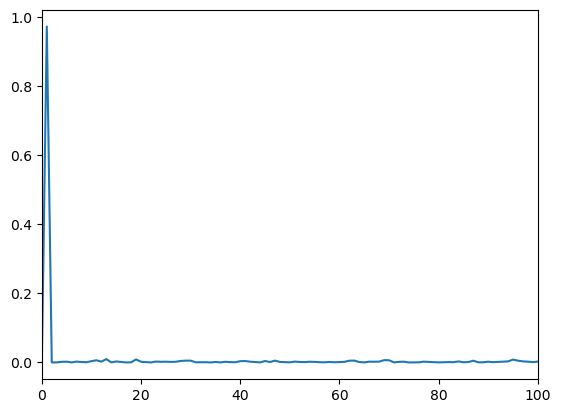
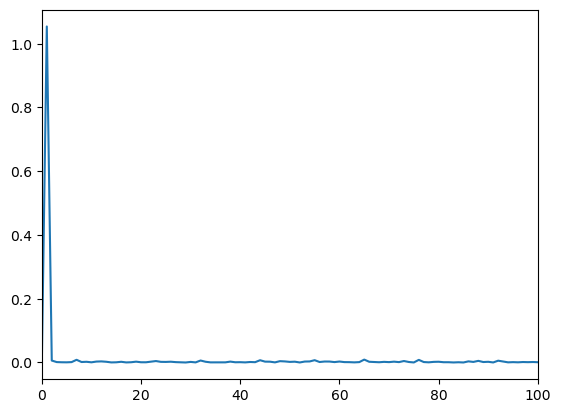
Update documentation

diff --git a/searchindex.js b/searchindex.js
@@ -1,1 +1,1 @@
-Search.setIndex({docnames:["ODE/1stODE","ODE/2ndODE","ODE/Laplace","ODE/Special_function","ODE/Sturm_Liouville","PDE/Fourier_Transform","PDE/Heat_equation","PDE/Laplace_equation","PDE/Wave_equation","README","content","intro","markdown","markdown-notebooks","notebooks"],envversion:{"sphinx.domains.c":2,"sphinx.domains.changeset":1,"sphinx.domains.citation":1,"sphinx.domains.cpp":3,"sphinx.domains.index":1,"sphinx.domains.javascript":2,"sphinx.domains.math":2,"sphinx.domains.python":2,"sphinx.domains.rst":2,"sphinx.domains.std":2,"sphinx.ext.intersphinx":1,"sphinxcontrib.bibtex":7,sphinx:56},filenames:["ODE/1stODE.md","ODE/2ndODE.md","ODE/Laplace.md","ODE/Special_function.md","ODE/Sturm_Liouville.md","PDE/Fourier_Transform.ipynb","PDE/Heat_equation.md","PDE/Laplace_equation.md","PDE/Wave_equation.md","README.md","content.md","intro.md","markdown.md","markdown-notebooks.md","notebooks.ipynb"],objects:{},objnames:{},objtypes:{},terms:{"001":3,"008595":5,"01735532":5,"05392595":5,"0562558929603039":5,"05731215":5,"0th":[2,3],"0x104462f40":14,"0x1047cf4c0":5,"100":[3,4,5,14],"1000":[3,4,5],"103":3,"104":3,"105":3,"106":3,"108":3,"114":3,"115":3,"122":3,"126":3,"127":3,"1298":5,"132":3,"133":3,"137":3,"144":6,"145":6,"146":6,"151":6,"153":6,"164":6,"1717":8,"175":8,"1783":8,"1803":4,"1809":4,"181":8,"1822":6,"184":8,"185":8,"1855":4,"187":8,"1882":4,"189":8,"191":8,"195":8,"196":8,"19680801":14,"1982":3,"199":8,"1st":[1,2,3,6,11],"2017":[11,12],"205":8,"206":8,"213":7,"215":7,"217":7,"220":7,"222":7,"226":7,"227":7,"229":7,"230":7,"231":7,"234":7,"236":7,"245":7,"2a_":1,"2a_0":1,"2a_n":1,"2as":2,"2dx":4,"2ir":7,"2nd":[0,2,3,6,8,11],"2pi":4,"2rr":7,"2sy":2,"2t_":2,"2ux":0,"2xt":3,"2xy":1,"2y_":8,"30x":3,"35x":3,"4ae":1,"4sy":2,"4t_":2,"508997":5,"57721566":3,"9118794535016458":5,"91279133":5,"91475538":5,"9ae":1,"\u03bb":3,"\u8f38\u51fa\u7d50\u679c":5,"case":[0,2,3,4,6,7,8],"class":11,"default":[12,13],"final":[0,1,2,4,6,7],"float":[3,5],"fran\u00e7oi":4,"function":[0,1,5,6,7,8,11,12],"h\u00f4pital":3,"import":[0,1,2,3,4,5,6,7,11,14],"int":[0,1,2,4,6,7],"long":[0,1,3,4,8],"new":[2,3,4,7],"return":5,"short":10,"try":[1,2,3,4,6,8],"while":[0,3,4,6,7,8],Adding:8,But:[3,14],For:[0,1,2,3,4,6,7,8,12,14],ODE:[2,3,4,6,8,11],ODEs:[0,1,2,3,4,11],One:[0,1,2,3,4,6,7,8],P_s:0,Such:6,That:[1,2,6,8,13],The:[0,2,6,8,11,12,13],Then:[0,1,2,3,4,6,7,8],There:[0,1,2,3,4,10,11,12,14],These:[4,8],Use:[0,7],Using:[0,1,2,4,6,7,8],With:[1,6,7,8,13],_0e:1,__init__:5,_ioncontext:14,a_0:[3,6,7],a_1:[1,3,4],a_1i:4,a_2:[1,4],a_2i:4,a_even:3,a_i:1,a_k:[4,5,8],a_n:[1,3,4,6,7,8],a_nx:3,abil:2,abl:1,about:[0,1,2,3,4,6,7,8,12,13,14],abov:[0,1,2,3,4,6,7,8,11],ac_2:4,acceler:[0,3],accept:12,accord:[0,1,2,3,4,6,8],accuraci:4,achiev:4,act:2,actual:[2,4],add:[6,12],add_:14,addit:[1,2,3,4,6],adiabat:0,adjac:8,adjoint:4,advanc:[11,12],advantag:0,advect:6,after:[2,4],again:[0,1,2,3,6,12],against:8,air:0,alambert:8,alembert:11,algebra:[1,2,7],align:[0,1,2,3,4,6,7,8,14],all:[0,1,2,3,4,6,7,8,11,12,13],allow:12,along:[1,3,6,7,8],alpha:[0,1,2,6,8],alpha_:6,alreadi:[0,2,12],also:[0,1,2,3,4,6,7,8,11,12,13,14],altern:[1,3,7],although:4,alwai:[0,4,6,8],amount:[0,7],amplif:3,amplitud:[3,4],analysi:[0,6,11],analyt:[0,11],analyz:1,angl:0,angular:3,ani:[0,1,2,3,4,8,12,13],anoth:[0,1,2,3,4,12],answer:[0,1,2],appar:[1,3],appear:6,appli:[0,1,2,3,4,6,7,8,11],applic:[0,3,6,7],approach:[0,1,4,6,7,8,11],approx_i:4,approxim:4,arang:5,arbitrari:[3,7],area:[1,3,4],ares:6,argmax:5,argument:3,aris:[2,3],around:[1,3,4],arrai:14,asarrai:5,assign:8,associ:[1,12],assum:[0,1,2,3,4,6,7,8],atmospher:[0,1,2,3,8,11],atom:6,attempt:[6,8],au_x:6,averag:[2,3],axes:14,axi:4,b_1:4,b_1y:4,b_2:4,b_2y:4,b_k:[4,5,8],b_n:[4,6,7,8],b_ne:6,back:[0,1,2,3,6,7,8],background:0,balanc:[0,6],ballist:0,bar:4,base:[0,1,2,3,4,7,11,13],basi:[2,4,6,7],basic:11,becaus:[2,3,6,7,8],becom:[2,3],been:[2,3,4],befor:[1,2],begin:[0,1,2,3,4,6,7,8,14],behind:1,being:12,below:[0,1,2,3,4,7],bernard:0,bernoulli:11,bessel:[4,7,11],bessel_output:3,beta:[1,2,6,8],better:1,between:[0,1,2,3,4,6,8],bib:12,bibliographi:12,bibtex:12,big:6,bit:1,block:[12,13],book:[12,13,14],both:[0,1,2,3,6,7,8,11,12],bottom:2,bound:[2,3,4,6],boundari:[0,1,6,7,8,11],box:12,build:12,built:[12,13],buoyanc:0,butterfli:0,by_1:1,by_2:1,c_0:[3,4],c_1:[1,2,3,4],c_1e:[1,2,4],c_1x:1,c_1y:1,c_1y_1:1,c_2:[1,2,4],c_2e:[1,2,4],c_2x:1,c_2y:1,c_2y_2:1,c_3:[1,3],c_3e:1,c_4:1,c_4e:1,c_5:3,c_7:3,c_k:[4,5],c_n:[3,4,6,7],c_p:0,c_v:0,calcul:[0,1,2,3,4,8],calculu:11,call:[0,1,2,3,4,6,12],can:[0,1,2,3,4,6,7,8,12,13,14],care:6,carri:[0,6],cartesian:7,cast:5,categor:[0,1,11],categori:[6,11],caus:[3,6],cbook:5,cdot:[1,2,3,6],cell:12,cengag:[11,12],center:[1,4],central:8,certain:[0,1,2,4,6,7,8],certainli:0,chain:7,challeng:1,chang:[0,1,4,6,7,8],chao:[0,4],chapter:[1,2,3,4,6,7],character:0,characterist:[1,2,4,6,7,11],charl:4,check:[0,3,14],choic:[1,3],choos:[3,6,8],chosen:[4,6],circl:7,circul:[0,2,3,4],circular:1,cite:12,classic:1,close:[0,1,4,6,7],cmap:14,code:[4,13],coef:4,coeffici:[2,3,6,7,8,11],cold:14,collect:3,color:14,combin:[0,1,3,4,6,7,8],come:[0,6],command:[12,13],common:0,commonmark:12,compar:[0,1],complet:[0,1,3,4,7,8],complex:[2,3,5,7,12],complexwarn:5,complic:[1,4,6,8],compon:2,comput:12,concentr:3,concept:[0,1,4],conclud:7,conclus:4,condit:[0,1,2,6,11],conjug:[1,5],connect:[0,2,4],conserv:[0,6,8],consid:[0,1,2,3,6,7,8],consin:8,consist:[2,6],constant:[0,2,3,4,6,7,8,11],constrain:[1,6],constraint:[3,6],content:[12,13],continu:[1,4],contribut:4,convect:[0,2],conveni:1,converg:[1,4],convert:[2,4,6,7,8,13],convolut:[4,11],coolwarm:14,coordin:[0,1,2,3,4,7,8],core:3,correspond:[0,1,2,3,4,7,8],cos:[0,1,2,3,5,6,7,8],cos_coef:5,cosh:[2,7],count2:3,count:3,counteract:0,counterpart:2,cours:[0,1,3,4],covari:4,cover:[0,1,2,3,4,10],cramer:1,creat:[2,14],criteria:2,cross:[0,1,4],current:[0,1],custom_lin:14,cycl:4,cycler:14,cyclon:[0,3],cylind:[3,4,11],cylindr:3,data:[2,4,14],deal:[2,7,8],decid:[0,1,4],decompos:[1,2,3,7],decomposit:[1,2,3],def:5,default_env2:5,defin:[0,1,2,3,4,5,7,12,13],definit:[0,2,4],delta:[6,11],delta_:2,demonstr:[4,6,8],denomin:2,denot:3,densiti:[0,6],depart:2,depend:[1,6,12],deriv:[0,1,2,3,4,6,7,8],describ:[1,4,7,8],detail:[0,1,2,3,4,13],determin:[0,1,2,3,4,6,8],develop:[3,6,8],did:6,differ:[0,2,3,4,6,7,11,12],differenti:[0,1,2,3,4,6,11],diffus:[3,4,7,11],dim:3,dimens:[0,6,11],dirac:11,direct:[0,3,6,7,8,13],directli:[1,7,12],dirichlet:11,discard:[2,5],discontinu:2,discret:4,discuss:[1,3,4],dispers:[0,11],displac:[1,8],displai:[12,13],distinct:4,distribut:6,dive:2,divid:[0,2,4,6,7],doc:12,document:[12,13,14],doe:[1,2,4,6],doesn:[1,2,6,12],doing:6,dollar:14,domain:[4,6,7],don:[2,3,4,7],done:[0,3],dot:7,down:[0,6],drag:0,drive:2,drop:[1,3,6],dt_:2,due:3,durat:2,dure:[0,4],dynam:[0,3,4,8],each:[0,1,2,3,4,6,7,8],earth:[0,1,3,4,6],easi:[0,4,6],easier:1,easiest:0,easili:[0,1,3,4,6,8],ecosystem:12,edg:[4,7],effect:[2,3,4],effici:[0,3],eigen:[3,4,6],eigenfunct:11,eigenvalu:3,either:6,electromagnet:3,emb:14,emit:1,enabl:[1,2,3],end:[0,1,2,3,4,5,6,7,8,14],energi:[0,3,4,6],engin:[4,6,11,12],enough:[1,6],enso:1,ensur:6,entir:[0,1,2,3,4,6,7,8,12],env:5,environ:6,environment:6,epsilon:2,equal:[1,2,3,4,6,7],equat:[0,2,3,4,11],equilibrium:[4,6],equip:11,equiv:3,equival:[0,4,6,7,8],era:4,escap:14,especi:[6,8],eta:8,etc:14,euler:[3,7,11],evalu:6,even:[0,3,4,11],everi:[1,4],evid:[1,2,4],evolv:[1,6],exactli:[0,2],examin:[0,3],exampl:[3,11,12,14],except:[1,8],exchang:[0,6],execut:13,exist:[0,2,4,6,8,11,12],exp:5,expand:[0,3],expans:[1,3,11],expect:[6,8,11],experi:[0,2],expert:2,explain:4,expon:[1,3],exponenti:2,express:3,extend:6,extens:12,extern:[1,6,8],extrem:[2,4],eyewal:2,f_1:1,f_2:1,f_i:1,f_n:1,face:0,fact:[3,6],factor:[0,2,4],fall:[0,6],familiar:6,famou:[2,3,4],far:[0,6],featur:[3,4],feel:3,few:[0,1,3,4,6,10],fft:5,field:[0,2],fig1:0,fig:[4,14],figsiz:14,figur:[0,1,2,3,4,7],file:13,filter:[2,4,11],find:[0,1,2,3,6,7,8,11],finit:[2,6,8],fire:1,first:[0,1,2,3,4,6,7,8,11,12],fix:[8,14],flat:4,flatten:6,flavor:12,float64:3,flow:0,flowchart:2,fluid:3,flux:[6,7],focu:[2,3],follow:[0,1,2,3,4,6,7,8,12,13],forc:[0,1,2,8,11],forget:3,form:[2,3,6,7,8,11],formul:11,formula:11,forth:[0,2,3],found:[0,4],four:7,fourier:[2,3,5,6,7,8,11],frac:[0,1,2,3,4,6,7,8],fraction:2,free:0,frequenc:[2,4],friction:6,from:[0,1,2,3,4,6,7,8,14],fundament:1,further:[0,1,3,4],gamma:3,gap:2,gas:0,gaussian:6,gdt:0,gener:[0,2,4,8,11],geometr:4,geometri:3,geophys:3,geq2:3,geq:3,get:[0,1,2,3,6,7,13],gibb:11,give:[0,1,2,3,4],given:[1,2,3,4,6,7,8],goal:[2,6],goe:[2,4],going:8,gonna:[4,8],gradient:[6,7],gradual:6,graviti:0,great:4,greater:2,green:[7,11],greenhous:0,grid:[3,7],growth:2,guess:[1,2,4,6],guid:14,hack:3,had:0,hadlei:3,half:6,hand:[0,1,2,3,6],handl:2,happen:[2,3,6],hard:[3,7,8],harmon:[1,3,7],has:[0,1,2,3,4,6,7,8,12],hat:[1,6],have:[0,1,2,3,4,6,7,8,13],heat:[0,1,3,7,8,11],heavili:4,heavisid:11,height:2,help:[0,1,11],here:[0,1,2,3,4,6,7,8,12,14],hermit:4,hermitian:4,high:[2,4],higher:[0,1,2,3,4,6,11],hint:[0,2,3],his:[0,4],histori:11,hold:1,holdgraf_evidence_2014:12,homogen:[3,4,6,8,11],hook:8,hopefulli:11,hot:14,how:[0,1,4,6,7,8,10,11,13],howev:[0,1,4,6,7],html:14,hurrican:[2,4],hwang:2,hyperbol:11,i2x:1,ib_n:6,idea:[0,8],ideal:0,ident:[2,4],identifi:1,ignor:0,iii:[4,11],iint_d:7,ikx:6,illustr:[3,7],imag:[5,14],imagin:1,imaginari:[3,5],immedi:7,implement:4,impli:[1,4,6,7,8],implicit:11,implicitli:0,imposs:0,impuls:11,includ:[0,1,6,11,12,13,14],increas:[1,4],increment:8,inde:[1,3,4],independ:[0,3,6,8,11],index:3,indic:[0,1,2,3,4,6,7,8],induct:3,infer:7,infin:2,infinit:[2,3,4,6],inflow:3,influenc:3,inform:[0,12,13,14],infti:[0,2,3,4,6,7,8],inhomogen:[3,4],init:[12,13],initi:[0,6,11],inner:[3,4],input:12,insert:12,insid:[7,12],inspect:[0,1,2],instead:[1,4,6],instruct:13,int_0:2,int_:[2,3,4,6,7,8],int_a:2,integ:[0,3,4],integr:[0,1,2,3,4,6,8],integrat:0,intensif:3,interact:14,interest:[2,3,4,6],interior:7,interpret:1,interv:1,intro:12,introduc:[1,2,3,4,6,7],intuit:[2,6],invers:[2,6],involv:1,ion:14,ipynb:12,itcz:[0,4],its:[0,1,2,3,4,6,8,12],j_0:3,j_4:3,j_n:3,jacobian:8,jacqu:4,jean:8,joseph:[4,6],julia:4,jump:[2,4,7],jupyt:[12,13,14],jupytext:[12,13],just:1,k_n:6,kappa:6,kappa_:6,kappa_c:6,kappa_ct:6,kct:8,keep:[6,14],kei:[1,6],kernel:[6,7,12,13],kind:[0,1,3,4,6,12],know:[0,1,2,3,4,6,7,8],known:[0,3,8],ku_:6,kv_:6,la_:14,label:[4,5],lambda:[3,4,6,7,8],lambda_n:[4,7],langl:4,languag:[0,12],laplac:[1,3,4,11],last:[0,3,4,6],later:[1,2,3,4,6],law:[0,6,8],lead:[0,1,2,3,4,6,7],learn:[0,1,2,4,7,11,12],least:[0,1,6],leav:[0,1,3,4,6,8],left:[0,1,2,3,4,6,7],legend:[5,14],legendr:[4,7,11],legendre_even:3,len:5,length:[3,4,8],leq:[4,6,7,8],less:[2,12],let:[0,1,2,3,4,6,7,8,13],leverag:[1,2,3,4],lib:5,like:[0,1,2,3,4,6,7,12,13],lim:3,lim_:[3,4],limit:[0,2,6],line2d:14,line:[3,7,11,12,13,14],linear:[1,2,4,6,7,8,11],linearli:[1,3],linspac:14,liouvil:[3,6,7,11],local:[1,2,6],locat:[0,1,4],logspac:14,longest:4,longrightarrow:[2,4],look:[0,2,3,4,6,8,12],loop:2,lorenz:0,loss:7,lot:[0,1,2,4,14],lower:[0,2,3,7],luckili:0,machin:2,maclaurin:3,main:[1,11],make:[0,1,2,4,6,7,8,14],mani:[0,1,2,3,10,12,13],manipul:7,map:2,markdownfil:13,markedli:12,markup:12,mask:2,match:4,materi:[6,8],math:[0,4,11,14],mathbb:[4,6],mathbf:[1,7],mathcal:[2,6],mathemat:[2,4,6,7,11,12],mathematician:4,mathrm:0,matmul:5,matplotlib:[5,14],matrix:[4,5,8],maximum:[3,4],mbox:14,mean:[0,1,2,6,8,14],mechan:4,medium:[4,11,14],memor:4,mention:1,mere:0,meridion:3,metadata:12,method:[1,2,8],middl:2,might:1,mimic:1,miniconda3:5,minimum:4,mix:6,mode:[3,6],model:[0,4,6],molecular:6,moment:4,momentum:[3,4],more:[0,1,2,3,4,6,8,11,12,13,14],moreoev:12,most:[0,1,3,4,8,12],motion:[1,11],move:[0,6],much:[1,3,8],multipl:[0,1,2,3,4,8],multipli:[0,1,2,3,4,5],must:[4,7,12],mydirectivenam:12,n_max:3,nabla:[3,7],name:[4,8,12],nearbi:6,nearli:[2,4],necessari:[0,2,6],necessarili:6,need:[0,1,2,3,4,6,7,13],neighbor:[4,6],neil:[11,12],neq:[3,4,6,7],nicknam:2,nj_:3,nois:[2,5],noisi:2,non:[0,1,2,3,4,7],nonhomogen:11,nontrivi:3,nonzero:[3,4],normal:[3,5,7],note:12,notebook:12,noth:[4,7],notic:[0,1,2,4,6,7],now:[0,1,2,4,6,8],np_:3,nth:3,number:[2,3,4,6,7,8],number_of_harmon:5,numer:[0,2,11],numpi:[5,14],object:0,observ:[1,2,3,4,6,8],obtain:[0,3,4],occupi:6,occur:4,ocean:1,odd:[3,8],off:13,oint_:7,omega:7,onc:12,one:[0,1,2,3,4,6,7,8,12],oneil17:[11,12],onli:[0,1,3,4,6,7,8,12],onto:[2,6],open:1,oper:[0,2,4],opposit:[7,8],optic:8,order:[2,3,4,6,8,11],ordinari:[0,1,4,11],organ:2,origin:[1,2,6,7,8],oscil:1,other:[0,1,2,3,4,7,8,13],otherwis:[0,1,7],our:[0,2,4,6],out:[0,2,4,6,14],output:[12,13],outsid:[4,6],over:[1,2,3,4,6,7,8],overturn:0,p_0:3,p_1:3,p_2:3,p_3:3,p_4:3,p_n:3,packag:5,page:[12,13],panel:[2,7],paper:3,parabol:[3,4],paramet:[1,4,6],part:[2,3,5,6,7,11],partial:[0,3,4,6,7,8,11],particl:1,particular:[0,11],partit:0,path:[0,12,13],pattern:12,peopl:4,perhap:[1,2],period:4,perpendicular:7,peter:[11,12],phenomena:3,phenomenon:[0,11],phi:3,physic:[2,3,4,6,7,8,11],pictur:[2,4],piec:1,place:[0,6],plai:[3,4],plain:0,plane:[8,11],plate:6,plot:[3,4,5,14],plt:[5,14],plu:2,pm2i:1,point:[0,1,2,4,7],poisson:11,polar:[3,7],pole:3,polynimi:11,polynomi:[1,4,7],posit:[4,8],possibl:[0,1,2,6],post:14,potenti:[0,11],power:[1,3,11,12],practic:[0,3,4,6,8],pre:12,precis:[0,4],predict:[1,4],predictor:4,prerequisit:11,presenc:13,pressur:0,previou:[1,2,6,7],previous:4,principl:[1,4],print:[5,12,13],probabl:4,problem:[0,3,4,11],procedur:[0,3],process:[2,3],process_tim:5,product:[1,3,4,7],project:[2,6],proof:[0,1,2,3],prop_cycl:14,propag:8,proper:[0,4],properli:[4,8,12],proport:[0,6],prove:[1,3,4],provid:[0,2,4],psi:[3,4,6,8],psi_:6,puls:2,purpos:[6,12],pursuit:0,put:[3,6],pyplot:[5,14],python3:5,quantiti:2,quantum:[3,4],question:[0,3,4,6,8,11],quick:0,quickli:6,r_1:1,r_1x:1,r_2:1,r_2x:1,radi:0,radial:3,radiat:[1,4,6],radiu:7,randn:14,random:[5,14],rang:[3,4,5,14],rangl:4,rare:[0,7],rate:[2,6],ration:6,raw:[2,5],rayleigh:0,rcparam:14,rdt:0,reader:[0,1,2,3,4,6,7,8],real:[2,4,5,7,8,11],rearrang:[0,2,3,6],reason:3,recal:[1,2,3,4,6],receiv:7,recogn:7,reconstruct:5,rectangl:11,recurr:[1,11],redistribut:6,reduc:[0,4],refer:[3,12],region:[6,7],regress:4,regular:[4,12],rel:[0,12],relat:[0,1,7,8,11],relationship:[3,11],remain:2,remov:[0,4],render:12,reorgan:[0,1,2,3,4,6],repeat:2,replac:[0,3],repres:[0,1,3,4,6,8],reproduc:14,requir:[0,1,11],research:11,reshap:4,resolv:4,respect:[0,3,6,8],respons:[0,1],rest:[12,13],restor:8,result:[1,3,4,6,7,8,12],retain:4,retriev:3,rewrit:[0,1,2,3,8],rewritten:[6,8],rho:6,riccati:11,rid:0,right:[0,1,2,3,4,6,7],rightarrow:[3,4,6,8],rise:3,river:0,role:[2,3,4],rolenam:12,root:2,rossbi:0,rule:[1,2,3,7],run:[2,12,13],s_1t:2,s_2t:2,sai:[0,2,7],same:[0,1,2,3,4,6,7,8,12],sampl:14,satisfi:[0,3,4,6,7,8],scale:6,scatter:4,scenario:1,schemat:[0,1,2],schubert:3,scienc:[0,2,3,6,8,11],scientif:[4,11],sec:[0,1],second:[1,2,3,4,5,6,7,8,11],section:[1,4,10],sector:7,see:[0,1,2,3,6,7,12,13,14],seed:14,seen:1,self:4,sens:7,separ:[3,4,6,7,8,11],seri:[2,7,11],serv:12,server:1,set:[1,2,3,4,6,7,8,11],setup:[2,4,11],sever:3,shape:2,share:[0,1,2,4,5,8],shift:[4,11],shock:2,should:[0,1,2,4,6,7,13],show:[0,1,2,3,4,8,13],shown:1,side:[0,1,2,3,6,7],sign:[4,6,7,8,14],signal:[2,4,5,6],signific:3,sim:[3,6,8],similar:[0,1,2,3,4,6,7,8,12],similarili:6,similarli:[0,2,3,4,8],simpl:[1,4,6,7,8],simpler:8,simplest:[1,3,6,12],simpli:[0,1,4,6,7],simplic:6,simplif:6,simplifi:[2,3],sin:[0,1,2,3,5,6,7,8],sin_coef:5,sinc:[0,1,2,3,4,7],singular:4,sinh:[2,7],sit:1,site:5,size:[2,5,6],skill:11,slight:12,slightli:[2,8],small:[2,4,6,8,12],smaller:3,smooth:[2,6],solut:[0,2,7,11],solv:[0,1,2,3,4,6,7,8,11],solvabl:6,some:[0,2,3,4,6,7,11,12,14],someth:[2,3],sometim:[2,3],sourc:[1,6],space:[1,3,4,6,7,11],span:[1,4,12],spatial:6,special:[0,1,2,4,6,7,8,11],specialfunct:3,specif:[0,6,8,12],specifi:[2,4,7],spectrum:11,speed:[0,8],sphere:3,spheric:3,sphinx:12,spread:4,sqrt:[0,1,2,3,4,6,8],squar:[0,4,6],squeez:5,sst:[1,2],st_:2,stage:1,stand:12,start:[0,1,2,5,6,13],state:[1,14],statist:4,stead:6,step:[0,1,2,3,4,6],still:[1,2],store:12,stove:1,str:5,straightforward:0,stretch:[4,8],strict:4,string:[8,11],structur:[3,6,7,11,12],student:11,studi:[2,3,6],sturm:[3,6,7,11],subject:0,subplot:[5,14],substitut:[0,1,2,3,4,6,7,8],subtract:[2,3],suggest:[1,3,4,6,8],sum:[1,3,8],sum_:[1,3,4,6,7,8],sum_i:1,sum_legendre_even:3,sum_x:3,summat:4,superposit:1,support:13,suppos:[6,7,8],sure:14,surround:4,swap:4,swim:0,swimmer:0,syllabu:12,syntax:12,system:[0,1,4],t_0:2,t_1:[2,6],t_2:[2,6],t_i:2,t_k:8,t_n:[6,8],take:[0,1,2,3,4,5,6,7],taken:1,talk:1,tan:[0,1,4],tangent:7,tangenti:3,tau:[2,6],taylor:[1,3],techniqu:[0,1,2,7,11],tell:[0,1,2,4,6],temperatur:[0,1,3,4,6,7],tempor:[6,8],term:[0,1,2,3,4,6,8],termin:0,test:[0,4,7,11],tex:14,text:[2,4,7,12,13],textbook:4,textrm:[2,3,4,6,7,8],than:[0,1,2,3,4,6],thei:[1,3,4,12],them:[0,1,3],theorem:[6,7,11],therefor:[0,1,2,3,4,6,7,8],thermal:[4,6],thermodynam:0,theta:[3,7],thi:[0,1,2,3,4,6,7,8,10,11,12,13,14],thin:4,thing:[3,4,13],think:[2,3,6,7,8],third:[1,3,4],those:[1,7,12],three:[0,1,2,4,6,7,11],through:[0,1,2,3,4,6,11],thu:6,time:[0,1,2,5,6,7,11,12],time_seri:5,ting:2,tip:[2,10],todai:[0,1,2,7],togeth:[6,8],tool:12,top:[2,13],topic:11,total:7,tracer:7,tradit:0,trajectori:0,transform:[0,1,3,6,8,11],transport:7,transpos:[4,5],transvers:[0,2,3,4],travel:0,treat:13,trick:6,trigonometr:1,trivial:[1,3,4],tropic:[0,3,4],truncat:[3,4],twice:8,two:[0,1,2,3,4,6,7,8,12,13],type:[0,1,6,11],typic:3,u_1:1,u_2:1,u_i:7,u_n:7,u_r:7,u_t:6,u_x:[6,7],u_xx:[6,7],u_yi:7,ubiquit:8,unbound:[3,11],uncertainti:4,undermin:1,understand:[1,6,13],undetermin:[1,2],uneven:3,unfortun:0,uniqu:[2,4,7,11],unit:[2,7],until:2,upper:[2,7],use:[0,1,2,3,4,6,7,12],used:[0,1,2,3,4,7,11,12],useful:3,user:5,uses:[12,13],using:[0,1,2,3,4,6,7,8,13],usual:[0,1,2,3,4,6,7],v_t:6,v_x:6,v_xx:6,valid:12,valu:[0,3,4,5,7,8,11],vanish:3,vari:6,variabl:[0,3,4,6,7,8,11],varianc:4,variat:[1,4,6,12],varieti:11,varphi:[0,4],varphi_k:4,varphi_n:4,vector:[0,4,7],vein:[0,6],veloc:[0,1,8],veri:[0,1,2,3,6,7,11,12],verifi:6,versa:6,vertic:[3,7],vibrat:8,vice:6,violat:7,visual:[2,3,4,6],vmatrix:[1,4],volum:0,wai:[0,1,2,3,4,6,7,10],walk:[0,1,2,4,11],want:[4,6,7,14],warm:1,wave:[0,2,4,6,7,11],wavi:3,weber:3,week:11,weight:3,well:[0,7,8,14],were:4,what:[1,4,6,7,11],when:[0,1,2,3,4,6,7,12,13],where:[0,1,2,3,4,6,7,8],wherea:12,whether:[4,12],which:[0,1,2,3,4,6,7,8,11,12,13],white:5,white_nois:5,who:0,whole:[0,7],why:[1,3,6,8],wide:[0,1,2,3,11],width:4,wiggl:[2,4],wikipedia:1,wind:3,window:[2,11],within:6,without:[0,1,4,6],wok:1,work:[0,11,12,14],world:2,worri:0,would:[0,2,4],write:[0,6,7,10,12,13],written:[0,1,2,3,4,6,7,8,12,13],wronskian:[4,11],x_0:[0,1,8],x_i:1,x_j:1,x_n:[6,7,8],x_t:8,xai:1,xdx:0,xlim:[4,5],xp_n:3,xyt:6,y_1:[0,1],y_2:[0,1],y_g:1,y_i:1,y_n:[6,7,8],y_p:1,y_t:8,y_x:8,yen:2,yield:[0,2,7],ylim:4,you:[0,1,11,12,13,14],your:[13,14],zero:[1,2,3,4,5,6,7],zonal:3},titles:["Week 1 and 2: 1st-order ODE","Week 3 and 4: 2nd-order ODE","Week 5 and 6: Laplace Transform","Week 9 and 10:  Special Functions","Week 7 and 8:  Sturm-Liouville Theorem: Eigenfunctions and Fourier Series","&lt;no title&gt;","Week 11:  Heat Equation","Week 13:  Laplace Equation","Week 12:  Wave Equation","Applied_Math","Content in Jupyter Book","Syllabus","Markdown Files","Notebooks with MyST Markdown","Content with notebooks"],titleterms:{"1st":0,"2nd":1,"case":1,"function":[2,3,4],Adding:12,ODE:[0,1],The:[1,3,4,7],Using:12,add:13,alembert:8,analysi:4,applied_math:9,approach:2,basic:1,bernoulli:0,bessel:3,block:14,book:[10,11],both:4,boundari:4,categori:[0,1],cell:13,characterist:8,citat:12,code:[12,14],coeffici:[1,4],complex:1,condit:[4,7,8],constant:1,content:[10,14],continu:2,convect:6,convolut:2,cos:4,cours:11,creat:13,delta:2,differ:1,diffus:6,dirac:2,direct:12,dirichlet:7,disk:7,dispers:8,distinct:1,eigenfunct:4,equat:[1,6,7,8],euler:1,exact:0,exampl:[0,1,2,4,6,7,8,13],execut:12,exist:1,expans:4,file:12,find:4,forc:6,form:[0,1,4],formula:[6,7],fourier:4,gener:[1,3],gibb:4,green:2,heat:6,heavisid:[2,4],histori:6,homogen:[0,1],how:2,iii:1,impuls:2,inclus:6,independ:1,initi:[1,2,7,8],insul:6,integr:7,jupyt:10,laplac:[2,7],legendr:3,line:8,linear:0,liouvil:4,markdown:[12,13,14],medium:8,metadata:13,modifi:3,motion:8,myst:[12,13,14],neumann:7,nonhomogen:[1,6],note:[3,4],notebook:[13,14],order:[0,1],origin:3,orthogon:4,other:6,outlin:11,output:14,particular:1,phenomenon:4,piecewis:2,plane:6,poisson:7,polynomi:3,power:4,problem:[1,2,6,7,8],process:6,proof:4,properti:1,quickli:13,real:[1,6],rectangl:7,recurr:3,relat:3,relationship:8,repeat:1,riccati:0,role:12,root:1,separ:0,seri:[1,3,4],setup:[7,8],shift:2,sin:4,solut:[1,3,4,6,8],some:1,space:[2,8],special:3,spectrum:4,stick:6,string:6,structur:8,sturm:4,syllabu:11,tabl:2,test:1,theorem:[1,2,4],time:8,transform:[2,4],type:4,unbound:8,uniqu:1,valu:[1,2],wave:8,week:[0,1,2,3,4,6,7,8],weight:4,what:[0,2,12],window:4,work:2,wronskian:1,yaml:13,your:12}})
+Search.setIndex({docnames:["ODE/1stODE","ODE/2ndODE","ODE/Laplace","ODE/Special_function","ODE/Sturm_Liouville","PDE/Fourier_Transform","PDE/Heat_equation","PDE/Laplace_equation","PDE/Wave_equation","README","content","intro","markdown","markdown-notebooks","notebooks"],envversion:{"sphinx.domains.c":2,"sphinx.domains.changeset":1,"sphinx.domains.citation":1,"sphinx.domains.cpp":3,"sphinx.domains.index":1,"sphinx.domains.javascript":2,"sphinx.domains.math":2,"sphinx.domains.python":2,"sphinx.domains.rst":2,"sphinx.domains.std":2,"sphinx.ext.intersphinx":1,"sphinxcontrib.bibtex":7,sphinx:56},filenames:["ODE/1stODE.md","ODE/2ndODE.md","ODE/Laplace.md","ODE/Special_function.md","ODE/Sturm_Liouville.md","PDE/Fourier_Transform.ipynb","PDE/Heat_equation.md","PDE/Laplace_equation.md","PDE/Wave_equation.md","README.md","content.md","intro.md","markdown.md","markdown-notebooks.md","notebooks.ipynb"],objects:{},objnames:{},objtypes:{},terms:{"001":3,"003830":5,"008595":[],"01735532":[],"05392595":[],"05509837":5,"0562558929603039":[],"05731215":[],"0577723148662088":5,"05883009":5,"07718935":5,"0th":[2,3],"0x104462f40":[],"0x1047cf4c0":[],"0x10560a4f0":5,"0x1082a62e0":14,"100":[3,4,5,14],"1000":[3,4,5],"103":3,"104":3,"105":3,"106":3,"108":3,"114":3,"115":3,"122":3,"126":3,"127":3,"1298":5,"132":3,"133":3,"137":3,"144":6,"145":6,"146":6,"151":6,"153":6,"164":6,"1717":8,"175":8,"1783":8,"1803":4,"1809":4,"181":8,"1822":6,"184":8,"185":8,"1855":4,"187":8,"1882":4,"189":8,"191":8,"195":8,"196":8,"19680801":14,"1982":3,"199":8,"1st":[1,2,3,6,11],"2017":[11,12],"205":8,"206":8,"213":7,"215":7,"217":7,"220":7,"222":7,"226":7,"227":7,"229":7,"230":7,"231":7,"234":7,"236":7,"245":7,"285030":5,"2a_":1,"2a_0":1,"2a_n":1,"2as":2,"2dx":4,"2ir":7,"2nd":[0,2,3,6,8,11],"2pi":4,"2rr":7,"2sy":2,"2t_":2,"2ux":0,"2xt":3,"2xy":1,"2y_":8,"30x":3,"35x":3,"4ae":1,"4sy":2,"4t_":2,"508997":[],"57721566":3,"9118794535016458":[],"91279133":[],"91475538":[],"9946835844769709":5,"99567827":5,"99736575":5,"9ae":1,"\u03bb":3,"\u8f38\u51fa\u7d50\u679c":5,"case":[0,2,3,4,6,7,8],"class":11,"default":[12,13],"final":[0,1,2,4,6,7],"float":[3,5],"fran\u00e7oi":4,"function":[0,1,5,6,7,8,11,12],"h\u00f4pital":3,"import":[0,1,2,3,4,5,6,7,11,14],"int":[0,1,2,4,6,7],"long":[0,1,3,4,8],"new":[2,3,4,7],"return":5,"short":10,"try":[1,2,3,4,6,8],"while":[0,3,4,6,7,8],Adding:8,But:[3,14],For:[0,1,2,3,4,6,7,8,12,14],ODE:[2,3,4,6,8,11],ODEs:[0,1,2,3,4,11],One:[0,1,2,3,4,6,7,8],P_s:0,Such:6,That:[1,2,6,8,13],The:[0,2,6,8,11,12,13],Then:[0,1,2,3,4,6,7,8],There:[0,1,2,3,4,10,11,12,14],These:[4,8],Use:[0,7],Using:[0,1,2,4,6,7,8],With:[1,6,7,8,13],_0e:1,__init__:5,_ioncontext:14,a_0:[3,6,7],a_1:[1,3,4],a_1i:4,a_2:[1,4],a_2i:4,a_even:3,a_i:1,a_k:[4,5,8],a_n:[1,3,4,6,7,8],a_nx:3,abil:2,abl:1,about:[0,1,2,3,4,6,7,8,12,13,14],abov:[0,1,2,3,4,6,7,8,11],ac_2:4,acceler:[0,3],accept:12,accord:[0,1,2,3,4,6,8],accuraci:4,achiev:4,act:2,actual:[2,4],add:[6,12],add_:14,addit:[1,2,3,4,6],adiabat:0,adjac:8,adjoint:4,advanc:[11,12],advantag:0,advect:6,after:[2,4],again:[0,1,2,3,6,12],against:8,air:0,alambert:8,alembert:11,algebra:[1,2,7],align:[0,1,2,3,4,6,7,8,14],all:[0,1,2,3,4,6,7,8,11,12,13],allow:12,along:[1,3,6,7,8],alpha:[0,1,2,6,8],alpha_:6,alreadi:[0,2,12],also:[0,1,2,3,4,6,7,8,11,12,13,14],altern:[1,3,7],although:4,alwai:[0,4,6,8],amount:[0,7],amplif:3,amplitud:[3,4],analysi:[0,6,11],analyt:[0,11],analyz:1,angl:0,angular:3,ani:[0,1,2,3,4,8,12,13],anoth:[0,1,2,3,4,12],answer:[0,1,2],appar:[1,3],appear:6,appli:[0,1,2,3,4,6,7,8,11],applic:[0,3,6,7],approach:[0,1,4,6,7,8,11],approx_i:4,approxim:4,arang:5,arbitrari:[3,7],area:[1,3,4],ares:6,argmax:5,argument:3,aris:[2,3],around:[1,3,4],arrai:14,asarrai:5,assign:8,associ:[1,12],assum:[0,1,2,3,4,6,7,8],atmospher:[0,1,2,3,8,11],atom:6,attempt:[6,8],au_x:6,averag:[2,3],axes:14,axi:4,b_1:4,b_1y:4,b_2:4,b_2y:4,b_k:[4,5,8],b_n:[4,6,7,8],b_ne:6,back:[0,1,2,3,6,7,8],background:0,balanc:[0,6],ballist:0,bar:4,base:[0,1,2,3,4,7,11,13],basi:[2,4,6,7],basic:11,becaus:[2,3,6,7,8],becom:[2,3],been:[2,3,4],befor:[1,2],begin:[0,1,2,3,4,6,7,8,14],behind:1,being:12,below:[0,1,2,3,4,7],bernard:0,bernoulli:11,bessel:[4,7,11],bessel_output:3,beta:[1,2,6,8],better:1,between:[0,1,2,3,4,6,8],bib:12,bibliographi:12,bibtex:12,big:6,bit:1,block:[12,13],book:[12,13,14],both:[0,1,2,3,6,7,8,11,12],bottom:2,bound:[2,3,4,6],boundari:[0,1,6,7,8,11],box:12,build:12,built:[12,13],buoyanc:0,butterfli:0,by_1:1,by_2:1,c_0:[3,4],c_1:[1,2,3,4],c_1e:[1,2,4],c_1x:1,c_1y:1,c_1y_1:1,c_2:[1,2,4],c_2e:[1,2,4],c_2x:1,c_2y:1,c_2y_2:1,c_3:[1,3],c_3e:1,c_4:1,c_4e:1,c_5:3,c_7:3,c_k:[4,5],c_n:[3,4,6,7],c_p:0,c_v:0,calcul:[0,1,2,3,4,8],calculu:11,call:[0,1,2,3,4,6,12],can:[0,1,2,3,4,6,7,8,12,13,14],care:6,carri:[0,6],cartesian:7,cast:5,categor:[0,1,11],categori:[6,11],caus:[3,6],cbook:5,cdot:[1,2,3,6],cell:12,cengag:[11,12],center:[1,4],central:8,certain:[0,1,2,4,6,7,8],certainli:0,chain:7,challeng:1,chang:[0,1,4,6,7,8],chao:[0,4],chapter:[1,2,3,4,6,7],character:0,characterist:[1,2,4,6,7,11],charl:4,check:[0,3,14],choic:[1,3],choos:[3,6,8],chosen:[4,6],circl:7,circul:[0,2,3,4],circular:1,cite:12,classic:1,close:[0,1,4,6,7],cmap:14,code:[4,13],coef:4,coeffici:[2,3,6,7,8,11],cold:14,collect:3,color:14,combin:[0,1,3,4,6,7,8],come:[0,6],command:[12,13],common:0,commonmark:12,compar:[0,1],complet:[0,1,3,4,7,8],complex:[2,3,5,7,12],complexwarn:5,complic:[1,4,6,8],compon:2,comput:12,concentr:3,concept:[0,1,4],conclud:7,conclus:4,condit:[0,1,2,6,11],conjug:[1,5],connect:[0,2,4],conserv:[0,6,8],consid:[0,1,2,3,6,7,8],consin:8,consist:[2,6],constant:[0,2,3,4,6,7,8,11],constrain:[1,6],constraint:[3,6],content:[12,13],continu:[1,4],contribut:4,convect:[0,2],conveni:1,converg:[1,4],convert:[2,4,6,7,8,13],convolut:[4,11],coolwarm:14,coordin:[0,1,2,3,4,7,8],core:3,correspond:[0,1,2,3,4,7,8],cos:[0,1,2,3,5,6,7,8],cos_coef:5,cosh:[2,7],count2:3,count:3,counteract:0,counterpart:2,cours:[0,1,3,4],covari:4,cover:[0,1,2,3,4,10],cramer:1,creat:[2,14],criteria:2,cross:[0,1,4],current:[0,1],custom_lin:14,cycl:4,cycler:14,cyclon:[0,3],cylind:[3,4,11],cylindr:3,data:[2,4,14],deal:[2,7,8],decid:[0,1,4],decompos:[1,2,3,7],decomposit:[1,2,3],def:5,default_env2:5,defin:[0,1,2,3,4,5,7,12,13],definit:[0,2,4],delta:[6,11],delta_:2,demonstr:[4,6,8],denomin:2,denot:3,densiti:[0,6],depart:2,depend:[1,6,12],deriv:[0,1,2,3,4,6,7,8],describ:[1,4,7,8],detail:[0,1,2,3,4,13],determin:[0,1,2,3,4,6,8],develop:[3,6,8],did:6,differ:[0,2,3,4,6,7,11,12],differenti:[0,1,2,3,4,6,11],diffus:[3,4,7,11],dim:3,dimens:[0,6,11],dirac:11,direct:[0,3,6,7,8,13],directli:[1,7,12],dirichlet:11,discard:[2,5],discontinu:2,discret:4,discuss:[1,3,4],dispers:[0,11],displac:[1,8],displai:[12,13],distinct:4,distribut:6,dive:2,divid:[0,2,4,6,7],doc:12,document:[12,13,14],doe:[1,2,4,6],doesn:[1,2,6,12],doing:6,dollar:14,domain:[4,6,7],don:[2,3,4,7],done:[0,3],dot:7,down:[0,6],drag:0,drive:2,drop:[1,3,6],dt_:2,due:3,durat:2,dure:[0,4],dynam:[0,3,4,8],each:[0,1,2,3,4,6,7,8],earth:[0,1,3,4,6],easi:[0,4,6],easier:1,easiest:0,easili:[0,1,3,4,6,8],ecosystem:12,edg:[4,7],effect:[2,3,4],effici:[0,3],eigen:[3,4,6],eigenfunct:11,eigenvalu:3,either:6,electromagnet:3,emb:14,emit:1,enabl:[1,2,3],end:[0,1,2,3,4,5,6,7,8,14],energi:[0,3,4,6],engin:[4,6,11,12],enough:[1,6],enso:1,ensur:6,entir:[0,1,2,3,4,6,7,8,12],env:5,environ:6,environment:6,epsilon:2,equal:[1,2,3,4,6,7],equat:[0,2,3,4,11],equilibrium:[4,6],equip:11,equiv:3,equival:[0,4,6,7,8],era:4,escap:14,especi:[6,8],eta:8,etc:14,euler:[3,7,11],evalu:6,even:[0,3,4,11],everi:[1,4],evid:[1,2,4],evolv:[1,6],exactli:[0,2],examin:[0,3],exampl:[3,11,12,14],except:[1,8],exchang:[0,6],execut:13,exist:[0,2,4,6,8,11,12],exp:5,expand:[0,3],expans:[1,3,11],expect:[6,8,11],experi:[0,2],expert:2,explain:4,expon:[1,3],exponenti:2,express:3,extend:6,extens:12,extern:[1,6,8],extrem:[2,4],eyewal:2,f_1:1,f_2:1,f_i:1,f_n:1,face:0,fact:[3,6],factor:[0,2,4],fall:[0,6],familiar:6,famou:[2,3,4],far:[0,6],featur:[3,4],feel:3,few:[0,1,3,4,6,10],fft:5,field:[0,2],fig1:0,fig:[4,14],figsiz:14,figur:[0,1,2,3,4,7],file:13,filter:[2,4,11],find:[0,1,2,3,6,7,8,11],finit:[2,6,8],fire:1,first:[0,1,2,3,4,6,7,8,11,12],fix:[8,14],flat:4,flatten:6,flavor:12,float64:3,flow:0,flowchart:2,fluid:3,flux:[6,7],focu:[2,3],follow:[0,1,2,3,4,6,7,8,12,13],forc:[0,1,2,8,11],forget:3,form:[2,3,6,7,8,11],formul:11,formula:11,forth:[0,2,3],found:[0,4],four:7,fourier:[2,3,5,6,7,8,11],frac:[0,1,2,3,4,6,7,8],fraction:2,free:0,frequenc:[2,4],friction:6,from:[0,1,2,3,4,6,7,8,14],fundament:1,further:[0,1,3,4],gamma:3,gap:2,gas:0,gaussian:6,gdt:0,gener:[0,2,4,8,11],geometr:4,geometri:3,geophys:3,geq2:3,geq:3,get:[0,1,2,3,6,7,13],gibb:11,give:[0,1,2,3,4],given:[1,2,3,4,6,7,8],goal:[2,6],goe:[2,4],going:8,gonna:[4,8],gradient:[6,7],gradual:6,graviti:0,great:4,greater:2,green:[7,11],greenhous:0,grid:[3,7],growth:2,guess:[1,2,4,6],guid:14,hack:3,had:0,hadlei:3,half:6,hand:[0,1,2,3,6],handl:2,happen:[2,3,6],hard:[3,7,8],harmon:[1,3,7],has:[0,1,2,3,4,6,7,8,12],hat:[1,6],have:[0,1,2,3,4,6,7,8,13],heat:[0,1,3,7,8,11],heavili:4,heavisid:11,height:2,help:[0,1,11],here:[0,1,2,3,4,6,7,8,12,14],hermit:4,hermitian:4,high:[2,4],higher:[0,1,2,3,4,6,11],hint:[0,2,3],his:[0,4],histori:11,hold:1,holdgraf_evidence_2014:12,homogen:[3,4,6,8,11],hook:8,hopefulli:11,hot:14,how:[0,1,4,6,7,8,10,11,13],howev:[0,1,4,6,7],html:14,hurrican:[2,4],hwang:2,hyperbol:11,i2x:1,ib_n:6,idea:[0,8],ideal:0,ident:[2,4],identifi:1,ignor:0,iii:[4,11],iint_d:7,ikx:6,illustr:[3,7],imag:[5,14],imagin:1,imaginari:[3,5],immedi:7,implement:4,impli:[1,4,6,7,8],implicit:11,implicitli:0,imposs:0,impuls:11,includ:[0,1,6,11,12,13,14],increas:[1,4],increment:8,inde:[1,3,4],independ:[0,3,6,8,11],index:3,indic:[0,1,2,3,4,6,7,8],induct:3,infer:7,infin:2,infinit:[2,3,4,6],inflow:3,influenc:3,inform:[0,12,13,14],infti:[0,2,3,4,6,7,8],inhomogen:[3,4],init:[12,13],initi:[0,6,11],inner:[3,4],input:12,insert:12,insid:[7,12],inspect:[0,1,2],instead:[1,4,6],instruct:13,int_0:2,int_:[2,3,4,6,7,8],int_a:2,integ:[0,3,4],integr:[0,1,2,3,4,6,8],integrat:0,intensif:3,interact:14,interest:[2,3,4,6],interior:7,interpret:1,interv:1,intro:12,introduc:[1,2,3,4,6,7],intuit:[2,6],invers:[2,6],involv:1,ion:14,ipynb:12,itcz:[0,4],its:[0,1,2,3,4,6,8,12],j_0:3,j_4:3,j_n:3,jacobian:8,jacqu:4,jean:8,joseph:[4,6],julia:4,jump:[2,4,7],jupyt:[12,13,14],jupytext:[12,13],just:1,k_n:6,kappa:6,kappa_:6,kappa_c:6,kappa_ct:6,kct:8,keep:[6,14],kei:[1,6],kernel:[6,7,12,13],kind:[0,1,3,4,6,12],know:[0,1,2,3,4,6,7,8],known:[0,3,8],ku_:6,kv_:6,la_:14,label:[4,5],lambda:[3,4,6,7,8],lambda_n:[4,7],langl:4,languag:[0,12],laplac:[1,3,4,11],last:[0,3,4,6],later:[1,2,3,4,6],law:[0,6,8],lead:[0,1,2,3,4,6,7],learn:[0,1,2,4,7,11,12],least:[0,1,6],leav:[0,1,3,4,6,8],left:[0,1,2,3,4,6,7],legend:[5,14],legendr:[4,7,11],legendre_even:3,len:5,length:[3,4,8],leq:[4,6,7,8],less:[2,12],let:[0,1,2,3,4,6,7,8,13],leverag:[1,2,3,4],lib:5,like:[0,1,2,3,4,6,7,12,13],lim:3,lim_:[3,4],limit:[0,2,6],line2d:14,line:[3,7,11,12,13,14],linear:[1,2,4,6,7,8,11],linearli:[1,3],linspac:14,liouvil:[3,6,7,11],local:[1,2,6],locat:[0,1,4],logspac:14,longest:4,longrightarrow:[2,4],look:[0,2,3,4,6,8,12],loop:2,lorenz:0,loss:7,lot:[0,1,2,4,14],lower:[0,2,3,7],luckili:0,machin:2,maclaurin:3,main:[1,11],make:[0,1,2,4,6,7,8,14],mani:[0,1,2,3,10,12,13],manipul:7,map:2,markdownfil:13,markedli:12,markup:12,mask:2,match:4,materi:[6,8],math:[0,4,11,14],mathbb:[4,6],mathbf:[1,7],mathcal:[2,6],mathemat:[2,4,6,7,11,12],mathematician:4,mathrm:0,matmul:5,matplotlib:[5,14],matrix:[4,5,8],maximum:[3,4],mbox:14,mean:[0,1,2,6,8,14],mechan:4,medium:[4,11,14],memor:4,mention:1,mere:0,meridion:3,metadata:12,method:[1,2,8],middl:2,might:1,mimic:1,miniconda3:5,minimum:4,mix:6,mode:[3,6],model:[0,4,6],molecular:6,moment:4,momentum:[3,4],more:[0,1,2,3,4,6,8,11,12,13,14],moreoev:12,most:[0,1,3,4,8,12],motion:[1,11],move:[0,6],much:[1,3,8],multipl:[0,1,2,3,4,8],multipli:[0,1,2,3,4,5],must:[4,7,12],mydirectivenam:12,n_max:3,nabla:[3,7],name:[4,8,12],nearbi:6,nearli:[2,4],necessari:[0,2,6],necessarili:6,need:[0,1,2,3,4,6,7,13],neighbor:[4,6],neil:[11,12],neq:[3,4,6,7],nicknam:2,nj_:3,nois:[2,5],noisi:2,non:[0,1,2,3,4,7],nonhomogen:11,nontrivi:3,nonzero:[3,4],normal:[3,5,7],note:12,notebook:12,noth:[4,7],notic:[0,1,2,4,6,7],now:[0,1,2,4,6,8],np_:3,nth:3,number:[2,3,4,6,7,8],number_of_harmon:5,numer:[0,2,11],numpi:[5,14],object:0,observ:[1,2,3,4,6,8],obtain:[0,3,4],occupi:6,occur:4,ocean:1,odd:[3,8],off:13,oint_:7,omega:7,onc:12,one:[0,1,2,3,4,6,7,8,12],oneil17:[11,12],onli:[0,1,3,4,6,7,8,12],onto:[2,6],open:1,oper:[0,2,4],opposit:[7,8],optic:8,order:[2,3,4,6,8,11],ordinari:[0,1,4,11],organ:2,origin:[1,2,6,7,8],oscil:1,other:[0,1,2,3,4,7,8,13],otherwis:[0,1,7],our:[0,2,4,6],out:[0,2,4,6,14],output:[12,13],outsid:[4,6],over:[1,2,3,4,6,7,8],overturn:0,p_0:3,p_1:3,p_2:3,p_3:3,p_4:3,p_n:3,packag:5,page:[12,13],panel:[2,7],paper:3,parabol:[3,4],paramet:[1,4,6],part:[2,3,5,6,7,11],partial:[0,3,4,6,7,8,11],particl:1,particular:[0,11],partit:0,path:[0,12,13],pattern:12,peopl:4,perhap:[1,2],period:4,perpendicular:7,peter:[11,12],phenomena:3,phenomenon:[0,11],phi:3,physic:[2,3,4,6,7,8,11],pictur:[2,4],piec:1,place:[0,6],plai:[3,4],plain:0,plane:[8,11],plate:6,plot:[3,4,5,14],plt:[5,14],plu:2,pm2i:1,point:[0,1,2,4,7],poisson:11,polar:[3,7],pole:3,polynimi:11,polynomi:[1,4,7],posit:[4,8],possibl:[0,1,2,6],post:14,potenti:[0,11],power:[1,3,11,12],practic:[0,3,4,6,8],pre:12,precis:[0,4],predict:[1,4],predictor:4,prerequisit:11,presenc:13,pressur:0,previou:[1,2,6,7],previous:4,principl:[1,4],print:[5,12,13],probabl:4,problem:[0,3,4,11],procedur:[0,3],process:[2,3],process_tim:5,product:[1,3,4,7],project:[2,6],proof:[0,1,2,3],prop_cycl:14,propag:8,proper:[0,4],properli:[4,8,12],proport:[0,6],prove:[1,3,4],provid:[0,2,4],psi:[3,4,6,8],psi_:6,puls:2,purpos:[6,12],pursuit:0,put:[3,6],pyplot:[5,14],python3:5,quantiti:2,quantum:[3,4],question:[0,3,4,6,8,11],quick:0,quickli:6,r_1:1,r_1x:1,r_2:1,r_2x:1,radi:0,radial:3,radiat:[1,4,6],radiu:7,randn:14,random:[5,14],rang:[3,4,5,14],rangl:4,rare:[0,7],rate:[2,6],ration:6,raw:[2,5],rayleigh:0,rcparam:14,rdt:0,reader:[0,1,2,3,4,6,7,8],real:[2,4,5,7,8,11],rearrang:[0,2,3,6],reason:3,recal:[1,2,3,4,6],receiv:7,recogn:7,reconstruct:5,rectangl:11,recurr:[1,11],redistribut:6,reduc:[0,4],refer:[3,12],region:[6,7],regress:4,regular:[4,12],rel:[0,12],relat:[0,1,7,8,11],relationship:[3,11],remain:2,remov:[0,4],render:12,reorgan:[0,1,2,3,4,6],repeat:2,replac:[0,3],repres:[0,1,3,4,6,8],reproduc:14,requir:[0,1,11],research:11,reshap:4,resolv:4,respect:[0,3,6,8],respons:[0,1],rest:[12,13],restor:8,result:[1,3,4,6,7,8,12],retain:4,retriev:3,rewrit:[0,1,2,3,8],rewritten:[6,8],rho:6,riccati:11,rid:0,right:[0,1,2,3,4,6,7],rightarrow:[3,4,6,8],rise:3,river:0,role:[2,3,4],rolenam:12,root:2,rossbi:0,rule:[1,2,3,7],run:[2,12,13],s_1t:2,s_2t:2,sai:[0,2,7],same:[0,1,2,3,4,6,7,8,12],sampl:14,satisfi:[0,3,4,6,7,8],scale:6,scatter:4,scenario:1,schemat:[0,1,2],schubert:3,scienc:[0,2,3,6,8,11],scientif:[4,11],sec:[0,1],second:[1,2,3,4,5,6,7,8,11],section:[1,4,10],sector:7,see:[0,1,2,3,6,7,12,13,14],seed:14,seen:1,self:4,sens:7,separ:[3,4,6,7,8,11],seri:[2,7,11],serv:12,server:1,set:[1,2,3,4,6,7,8,11],setup:[2,4,11],sever:3,shape:2,share:[0,1,2,4,5,8],shift:[4,11],shock:2,should:[0,1,2,4,6,7,13],show:[0,1,2,3,4,8,13],shown:1,side:[0,1,2,3,6,7],sign:[4,6,7,8,14],signal:[2,4,5,6],signific:3,sim:[3,6,8],similar:[0,1,2,3,4,6,7,8,12],similarili:6,similarli:[0,2,3,4,8],simpl:[1,4,6,7,8],simpler:8,simplest:[1,3,6,12],simpli:[0,1,4,6,7],simplic:6,simplif:6,simplifi:[2,3],sin:[0,1,2,3,5,6,7,8],sin_coef:5,sinc:[0,1,2,3,4,7],singular:4,sinh:[2,7],sit:1,site:5,size:[2,5,6],skill:11,slight:12,slightli:[2,8],small:[2,4,6,8,12],smaller:3,smooth:[2,6],solut:[0,2,7,11],solv:[0,1,2,3,4,6,7,8,11],solvabl:6,some:[0,2,3,4,6,7,11,12,14],someth:[2,3],sometim:[2,3],sourc:[1,6],space:[1,3,4,6,7,11],span:[1,4,12],spatial:6,special:[0,1,2,4,6,7,8,11],specialfunct:3,specif:[0,6,8,12],specifi:[2,4,7],spectrum:11,speed:[0,8],sphere:3,spheric:3,sphinx:12,spread:4,sqrt:[0,1,2,3,4,6,8],squar:[0,4,6],squeez:5,sst:[1,2],st_:2,stage:1,stand:12,start:[0,1,2,5,6,13],state:[1,14],statist:4,stead:6,step:[0,1,2,3,4,6],still:[1,2],store:12,stove:1,str:5,straightforward:0,stretch:[4,8],strict:4,string:[8,11],structur:[3,6,7,11,12],student:11,studi:[2,3,6],sturm:[3,6,7,11],subject:0,subplot:[5,14],substitut:[0,1,2,3,4,6,7,8],subtract:[2,3],suggest:[1,3,4,6,8],sum:[1,3,8],sum_:[1,3,4,6,7,8],sum_i:1,sum_legendre_even:3,sum_x:3,summat:4,superposit:1,support:13,suppos:[6,7,8],sure:14,surround:4,swap:4,swim:0,swimmer:0,syllabu:12,syntax:12,system:[0,1,4],t_0:2,t_1:[2,6],t_2:[2,6],t_i:2,t_k:8,t_n:[6,8],take:[0,1,2,3,4,5,6,7],taken:1,talk:1,tan:[0,1,4],tangent:7,tangenti:3,tau:[2,6],taylor:[1,3],techniqu:[0,1,2,7,11],tell:[0,1,2,4,6],temperatur:[0,1,3,4,6,7],tempor:[6,8],term:[0,1,2,3,4,6,8],termin:0,test:[0,4,7,11],tex:14,text:[2,4,7,12,13],textbook:4,textrm:[2,3,4,6,7,8],than:[0,1,2,3,4,6],thei:[1,3,4,12],them:[0,1,3],theorem:[6,7,11],therefor:[0,1,2,3,4,6,7,8],thermal:[4,6],thermodynam:0,theta:[3,7],thi:[0,1,2,3,4,6,7,8,10,11,12,13,14],thin:4,thing:[3,4,13],think:[2,3,6,7,8],third:[1,3,4],those:[1,7,12],three:[0,1,2,4,6,7,11],through:[0,1,2,3,4,6,11],thu:6,time:[0,1,2,5,6,7,11,12],time_seri:5,ting:2,tip:[2,10],todai:[0,1,2,7],togeth:[6,8],tool:12,top:[2,13],topic:11,total:7,tracer:7,tradit:0,trajectori:0,transform:[0,1,3,6,8,11],transport:7,transpos:[4,5],transvers:[0,2,3,4],travel:0,treat:13,trick:6,trigonometr:1,trivial:[1,3,4],tropic:[0,3,4],truncat:[3,4],twice:8,two:[0,1,2,3,4,6,7,8,12,13],type:[0,1,6,11],typic:3,u_1:1,u_2:1,u_i:7,u_n:7,u_r:7,u_t:6,u_x:[6,7],u_xx:[6,7],u_yi:7,ubiquit:8,unbound:[3,11],uncertainti:4,undermin:1,understand:[1,6,13],undetermin:[1,2],uneven:3,unfortun:0,uniqu:[2,4,7,11],unit:[2,7],until:2,upper:[2,7],use:[0,1,2,3,4,6,7,12],used:[0,1,2,3,4,7,11,12],useful:3,user:5,uses:[12,13],using:[0,1,2,3,4,6,7,8,13],usual:[0,1,2,3,4,6,7],v_t:6,v_x:6,v_xx:6,valid:12,valu:[0,3,4,5,7,8,11],vanish:3,vari:6,variabl:[0,3,4,6,7,8,11],varianc:4,variat:[1,4,6,12],varieti:11,varphi:[0,4],varphi_k:4,varphi_n:4,vector:[0,4,7],vein:[0,6],veloc:[0,1,8],veri:[0,1,2,3,6,7,11,12],verifi:6,versa:6,vertic:[3,7],vibrat:8,vice:6,violat:7,visual:[2,3,4,6],vmatrix:[1,4],volum:0,wai:[0,1,2,3,4,6,7,10],walk:[0,1,2,4,11],want:[4,6,7,14],warm:1,wave:[0,2,4,6,7,11],wavi:3,weber:3,week:11,weight:3,well:[0,7,8,14],were:4,what:[1,4,6,7,11],when:[0,1,2,3,4,6,7,12,13],where:[0,1,2,3,4,6,7,8],wherea:12,whether:[4,12],which:[0,1,2,3,4,6,7,8,11,12,13],white:5,white_nois:5,who:0,whole:[0,7],why:[1,3,6,8],wide:[0,1,2,3,11],width:4,wiggl:[2,4],wikipedia:1,wind:3,window:[2,11],within:6,without:[0,1,4,6],wok:1,work:[0,11,12,14],world:2,worri:0,would:[0,2,4],write:[0,6,7,10,12,13],written:[0,1,2,3,4,6,7,8,12,13],wronskian:[4,11],x_0:[0,1,8],x_i:1,x_j:1,x_n:[6,7,8],x_t:8,xai:1,xdx:0,xlim:[4,5],xp_n:3,xyt:6,y_1:[0,1],y_2:[0,1],y_g:1,y_i:1,y_n:[6,7,8],y_p:1,y_t:8,y_x:8,yen:2,yield:[0,2,7],ylim:4,you:[0,1,11,12,13,14],your:[13,14],zero:[1,2,3,4,5,6,7],zonal:3},titles:["Week 1 and 2: 1st-order ODE","Week 3 and 4: 2nd-order ODE","Week 5 and 6: Laplace Transform","Week 9 and 10:  Special Functions","Week 7 and 8:  Sturm-Liouville Theorem: Eigenfunctions and Fourier Series","&lt;no title&gt;","Week 11:  Heat Equation","Week 13:  Laplace Equation","Week 12:  Wave Equation","Applied_Math","Content in Jupyter Book","Syllabus","Markdown Files","Notebooks with MyST Markdown","Content with notebooks"],titleterms:{"1st":0,"2nd":1,"case":1,"function":[2,3,4],Adding:12,ODE:[0,1],The:[1,3,4,7],Using:12,add:13,alembert:8,analysi:4,applied_math:9,approach:2,basic:1,bernoulli:0,bessel:3,block:14,book:[10,11],both:4,boundari:4,categori:[0,1],cell:13,characterist:8,citat:12,code:[12,14],coeffici:[1,4],complex:1,condit:[4,7,8],constant:1,content:[10,14],continu:2,convect:6,convolut:2,cos:4,cours:11,creat:13,delta:2,differ:1,diffus:6,dirac:2,direct:12,dirichlet:7,disk:7,dispers:8,distinct:1,eigenfunct:4,equat:[1,6,7,8],euler:1,exact:0,exampl:[0,1,2,4,6,7,8,13],execut:12,exist:1,expans:4,file:12,find:4,forc:6,form:[0,1,4],formula:[6,7],fourier:4,gener:[1,3],gibb:4,green:2,heat:6,heavisid:[2,4],histori:6,homogen:[0,1],how:2,iii:1,impuls:2,inclus:6,independ:1,initi:[1,2,7,8],insul:6,integr:7,jupyt:10,laplac:[2,7],legendr:3,line:8,linear:0,liouvil:4,markdown:[12,13,14],medium:8,metadata:13,modifi:3,motion:8,myst:[12,13,14],neumann:7,nonhomogen:[1,6],note:[3,4],notebook:[13,14],order:[0,1],origin:3,orthogon:4,other:6,outlin:11,output:14,particular:1,phenomenon:4,piecewis:2,plane:6,poisson:7,polynomi:3,power:4,problem:[1,2,6,7,8],process:6,proof:4,properti:1,quickli:13,real:[1,6],rectangl:7,recurr:3,relat:3,relationship:8,repeat:1,riccati:0,role:12,root:1,separ:0,seri:[1,3,4],setup:[7,8],shift:2,sin:4,solut:[1,3,4,6,8],some:1,space:[2,8],special:3,spectrum:4,stick:6,string:6,structur:8,sturm:4,syllabu:11,tabl:2,test:1,theorem:[1,2,4],time:8,transform:[2,4],type:4,unbound:8,uniqu:1,valu:[1,2],wave:8,week:[0,1,2,3,4,6,7,8],weight:4,what:[0,2,12],window:4,work:2,wronskian:1,yaml:13,your:12}})

diff --git a/PDE/Fourier_Transform.html b/PDE/Fourier_Transform.html
@@ -404,7 +404,7 @@ title="Print to PDF"
 </div>
 </div>
 <div class="cell_output docutils container">
-<div class="output text_plain highlight-myst-ansi notranslate"><div class="highlight"><pre><span></span>&lt;matplotlib.legend.Legend at 0x1047cf4c0&gt;
+<div class="output text_plain highlight-myst-ansi notranslate"><div class="highlight"><pre><span></span>&lt;matplotlib.legend.Legend at 0x10560a4f0&gt;
 </pre></div>
 </div>
 <img alt="../_images/Fourier_Transform_0_1.png" src="../_images/Fourier_Transform_0_1.png" />
@@ -457,10 +457,10 @@ title="Print to PDF"
 </div>
 </div>
 <div class="cell_output docutils container">
-<div class="output stream highlight-myst-ansi notranslate"><div class="highlight"><pre><span></span>A_k=[[0.91475538]]
-B_k=[[1.05392595]]
-A_k=[ 0.91279133 -0.01735532]
-B_k=[1.05731215 0.        ]
+<div class="output stream highlight-myst-ansi notranslate"><div class="highlight"><pre><span></span>A_k=[[0.99736575]]
+B_k=[[1.05509837]]
+A_k=[0.99567827 0.07718935]
+B_k=[1.05883009 0.        ]
 </pre></div>
 </div>
 </div>
@@ -489,9 +489,9 @@ B_k=[1.05731215 0.        ]
 </div>
 </div>
 <div class="cell_output docutils container">
-<div class="output stream highlight-myst-ansi notranslate"><div class="highlight"><pre><span></span>A_k=[[0.91475538]]
-B_k=[[1.05392595]]
-takes：0.508997 seconds
+<div class="output stream highlight-myst-ansi notranslate"><div class="highlight"><pre><span></span>A_k=[[0.99736575]]
+B_k=[[1.05509837]]
+takes：0.285030 seconds
 </pre></div>
 </div>
 <div class="output stderr highlight-myst-ansi notranslate"><div class="highlight"><pre><span></span>/Users/Shared/miniconda3/envs/default_env2/lib/python3.9/site-packages/matplotlib/cbook/__init__.py:1298: ComplexWarning: Casting complex values to real discards the imaginary part
@@ -515,8 +515,8 @@ takes：0.508997 seconds
 </div>
 </div>
 <div class="cell_output docutils container">
-<div class="output stream highlight-myst-ansi notranslate"><div class="highlight"><pre><span></span>A_k=[[0.91475538]]
-B_k=[[1.05392595]]
+<div class="output stream highlight-myst-ansi notranslate"><div class="highlight"><pre><span></span>A_k=[[0.99736575]]
+B_k=[[1.05509837]]
 </pre></div>
 </div>
 </div>
@@ -534,7 +534,7 @@ B_k=[[1.05392595]]
 </div>
 </div>
 <div class="cell_output docutils container">
-<div class="output stream highlight-myst-ansi notranslate"><div class="highlight"><pre><span></span>takes：0.008595 seconds
+<div class="output stream highlight-myst-ansi notranslate"><div class="highlight"><pre><span></span>takes：0.003830 seconds
 </pre></div>
 </div>
 <div class="output stderr highlight-myst-ansi notranslate"><div class="highlight"><pre><span></span>/Users/Shared/miniconda3/envs/default_env2/lib/python3.9/site-packages/matplotlib/cbook/__init__.py:1298: ComplexWarning: Casting complex values to real discards the imaginary part
@@ -558,8 +558,8 @@ B_k=[[1.05392595]]
 </div>
 </div>
 <div class="cell_output docutils container">
-<div class="output stream highlight-myst-ansi notranslate"><div class="highlight"><pre><span></span>A_k=0.9118794535016458
-B_k=-1.0562558929603039
+<div class="output stream highlight-myst-ansi notranslate"><div class="highlight"><pre><span></span>A_k=0.9946835844769709
+B_k=1.0577723148662088
 </pre></div>
 </div>
 </div>

diff --git a/PDE/Laplace_equation.html b/PDE/Laplace_equation.html
@@ -723,8 +723,8 @@ u(x,y) = c+\sum_{n=1}^{\infty} c_n\cosh(\frac{n\pi x}{b})\cos(\frac{n\pi y}{b})\
 Suppose <span class="math notranslate nohighlight">\(D\)</span> is a disk with a radius <span class="math notranslate nohighlight">\(R\)</span> about the origins. The boundary of <span class="math notranslate nohighlight">\(D\)</span> is the circle <span class="math notranslate nohighlight">\(C\)</span>. In polar coordinate, the Neumann problem for <span class="math notranslate nohighlight">\(D\)</span> is</p>
 <div class="math notranslate nohighlight">
 \[\begin{split}\begin{cases}
-\nabla^2 u(r,\theta) = 0 \;\;\; \textrm{for \leq r &lt; R,-\pi\leq\theta&lt;\pi} \\
-\frac{\partial u}{\partial r}(R,\theta) \;\;\; \textrm{for -\pi\leq \theta\leq \pi}
+\nabla^2 u(r,\theta) = 0 \;\;\; \textrm{for $\leq r &lt; R,-\pi\leq\theta&lt;\pi$} \\
+\frac{\partial u}{\partial r}(R,\theta) \;\;\; \textrm{for $-\pi\leq \theta\leq \pi$}
 \end{cases}\end{split}\]</div>
 </div>
 </div>

diff --git a/notebooks.html b/notebooks.html
@@ -458,7 +458,7 @@ For example, here’s some sample Matplotlib code:</p>
 </div>
 </div>
 <div class="cell_output docutils container">
-<div class="output text_plain highlight-myst-ansi notranslate"><div class="highlight"><pre><span></span>&lt;matplotlib.pyplot._IonContext at 0x104462f40&gt;
+<div class="output text_plain highlight-myst-ansi notranslate"><div class="highlight"><pre><span></span>&lt;matplotlib.pyplot._IonContext at 0x1082a62e0&gt;
 </pre></div>
 </div>
 </div>

diff --git a/_sources/PDE/Laplace_equation.md b/_sources/PDE/Laplace_equation.md
@@ -548,8 +548,8 @@ Suppose $D$ is a disk with a radius $R$ about the origins. The boundary of $D$ i
 
 ```{math}
 \begin{cases}
-\nabla^2 u(r,\theta) = 0 \;\;\; \textrm{for \leq r < R,-\pi\leq\theta<\pi} \\
-\frac{\partial u}{\partial r}(R,\theta) \;\;\; \textrm{for -\pi\leq \theta\leq \pi}
+\nabla^2 u(r,\theta) = 0 \;\;\; \textrm{for $\leq r < R,-\pi\leq\theta<\pi$} \\
+\frac{\partial u}{\partial r}(R,\theta) \;\;\; \textrm{for $-\pi\leq \theta\leq \pi$}
 \end{cases}
 ```
 
